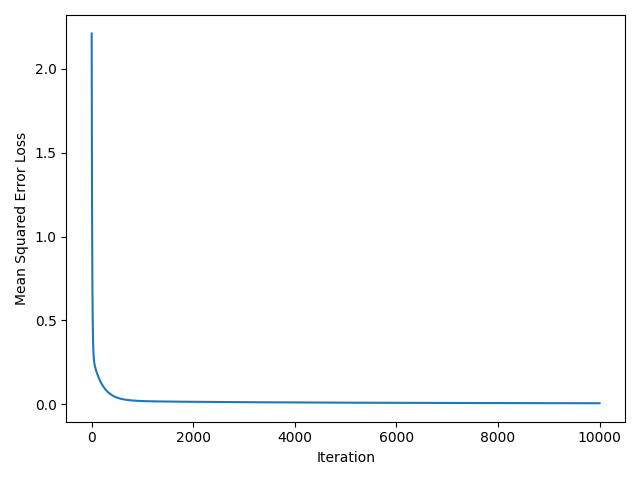
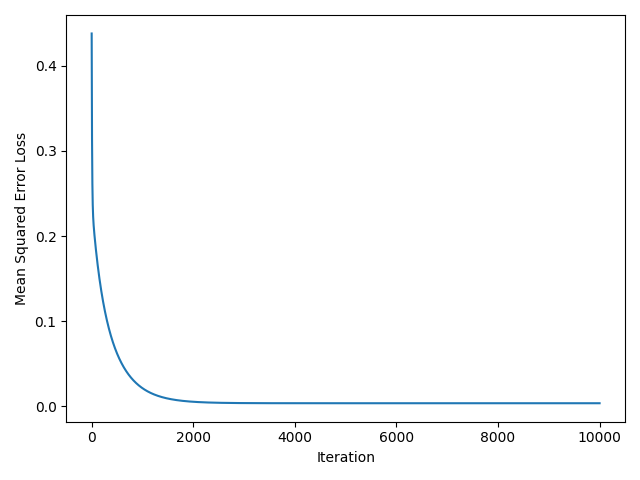
20251219

diff --git a/4/machine_learnig/03_pytorch/scripts/ex_03_22126.py b/4/machine_learnig/03_pytorch/scripts/ex_03_22126.py
@@ -1,0 +1,246 @@
+import os
+
+import torch
+import torch.nn as nn
+import torch.optim as optim
+from torch.utils.data import DataLoader
+import torchvision
+import torchvision.transforms as transforms
+import matplotlib.pyplot as plt
+
+
+def plot_losses(train_losses, test_losses, output_dir="../outputs"):
+    """
+    学習とテストの損失履歴を描画し，画像として保存する関数
+
+    Parameters
+    ----------
+    train_losses : list of float
+        学習データの各エポックの平均損失
+    test_losses : list of float
+        テストデータの各エポックの平均損失
+    output_dir : str
+        出力先ディレクトリのパス
+    """
+    os.makedirs(output_dir, exist_ok=True)
+    epochs = range(1, len(train_losses) + 1)
+
+    plt.figure()
+    plt.plot(epochs, train_losses, label="Train Loss")
+    plt.plot(epochs, test_losses, label="Test Loss")
+    plt.xlabel("Epoch")
+    plt.ylabel("Loss")
+    plt.legend()
+
+    out_path = os.path.join(output_dir, "mnist_loss_ex_03_22126_epoch100.png")
+    plt.savefig(out_path)
+    plt.close()
+
+    print(f"Saved loss figure to {out_path}")
+
+
+def plot_accuracy(train_accs, test_accs, output_dir="../outputs"):
+    """
+    学習とテストの正答率履歴を描画し，画像として保存する関数
+
+    Parameters
+    ----------
+    train_accs : list of float
+        学習データの各エポックの正答率（百分率）
+    test_accs : list of float
+        テストデータの各エポックの正答率（百分率）
+    output_dir : str
+        出力先ディレクトリのパス
+    """
+    os.makedirs(output_dir, exist_ok=True)
+    epochs = range(1, len(train_accs) + 1)
+
+    plt.figure()
+    plt.plot(epochs, train_accs, label="Train Acc")
+    plt.plot(epochs, test_accs, label="Test Acc")
+    plt.xlabel("Epoch")
+    plt.ylabel("Accuracy (%)")
+    plt.legend()
+
+    out_path = os.path.join(output_dir, "mnist_accuracy_ex_03_22126_epoch100.png")
+    plt.savefig(out_path)
+    plt.close()
+
+
+
+class NeuealNetworkCls(nn.Module):
+    """
+    ニューラルネットワークによる分類モデル（MNIST 用の単純 MLP）
+
+    Notes
+    -----
+    入力は 28x28 のグレースケール画像であり，Flatten 後の次元は 784 (=28*28) になる
+    """
+
+    def __init__(self):
+        super().__init__()
+        self.flatten = nn.Flatten()
+        self.fc1 = nn.Linear(784, 100)
+        self.relu = nn.ReLU()
+        self.fc2 = nn.Linear(100, 10)
+
+    def forward(self, x):
+        """
+        Forward pass of the classifier
+
+        Parameters
+        ----------
+        x : torch.Tensor
+            入力画像テンソル，形状は (N, 1, 28, 28)
+
+        Returns
+        -------
+        torch.Tensor
+            出力ロジット，形状は (N, 10)
+        """
+        x = self.flatten(x)
+        x = self.fc1(x)
+        x = self.relu(x)
+        x = self.fc2(x)
+        return x
+
+
+def load_mnist_dataloaders(batch_size=128):
+    """
+    MNIST のデータセットを読み込み，DataLoader を作成する関数
+
+    Parameters
+    ----------
+    batch_size : int, optional
+        ミニバッチサイズ
+
+    Returns
+    -------
+    tuple of DataLoader
+        (train_loader, test_loader)
+
+    """
+    transform = transforms.Compose([transforms.ToTensor()])
+
+    train_dataset = torchvision.datasets.MNIST(
+        root="../data", train=True, download=True, transform=transform
+    )
+    test_dataset = torchvision.datasets.MNIST(
+        root="../data", train=False, download=True, transform=transform
+    )
+
+    train_loader = DataLoader(train_dataset, batch_size=batch_size,shuffle=True)
+    test_loader = DataLoader(test_dataset, batch_size=batch_size, shuffle=False)
+
+    return train_loader, test_loader
+
+
+def main():
+    """
+    MNIST の分類モデルを学習し，各エポックにおける損失と正答率を表示し，
+    終了後に別々の画像として保存するメイン処理
+
+    Notes
+    -----
+    学習，評価，可視化までを一括で実行する
+    """
+
+    batch_size = 128
+    max_epochs = 100
+
+    learning_rate = 0.01
+
+
+    train_loader, test_loader = load_mnist_dataloaders(
+        batch_size=batch_size,
+    )
+
+    # モデルのインスタンスを生成
+    model = NeuealNetworkCls()
+    
+    # 誤差関数の宣言
+    criterion = nn.CrossEntropyLoss()
+    # 最適化器の宣言
+    optimizer = optim.SGD(model.parameters(), lr=learning_rate)
+
+    # 各エポックの損失と正答率を保存するリスト
+    train_losses = []
+    test_losses = []
+    train_accs = []
+    test_accs = []
+
+    # モデルの学習
+    for epoch in range(max_epochs):
+        running_loss = 0.0
+        correct_train = 0
+        total_train = 0
+
+        # モデルを学習モードに設定
+        model.train()
+        # 学習ループ
+        for inputs, labels in train_loader:
+            # 順伝播
+            outputs = model(inputs)
+            # 誤差計算
+            loss = criterion(outputs, labels)
+
+            # 重みの更新
+            optimizer.zero_grad()
+            loss.backward()
+            optimizer.step()
+
+            # 誤差を累積
+            running_loss += loss.item()
+            # 正答数を累積
+            _, predicted = outputs.max(1)
+            total_train += labels.size(0)
+            correct_train += (predicted == labels).sum().item()
+
+        # 学習データの平均誤差と正答率を計算
+        avg_train_loss = running_loss / len(train_loader)
+        train_acc = 100 * correct_train / total_train
+
+        running_test_loss = 0.0
+        correct_test = 0
+        total_test = 0
+
+        # モデルを学習モードに設定
+        model.eval()
+        # テストループ
+        with torch.no_grad():
+            for inputs, labels in test_loader:
+                # 順伝播
+                outputs = model(inputs)
+                # 誤差計算
+                loss = criterion(outputs, labels)
+
+                # 誤差を累積
+                running_test_loss += loss.item()
+                # 正答数を累積
+                _, predicted = outputs.max(1)
+                total_test += labels.size(0)
+                correct_test += (predicted == labels).sum().item()
+
+        # 学習データの平均誤差と正答率を計算
+        avg_test_loss = running_test_loss / len(test_loader)
+        test_acc = 100 * correct_test / total_test
+
+        # リストに履歴を結合
+        train_losses.append(avg_train_loss)
+        test_losses.append(avg_test_loss)
+        train_accs.append(train_acc)
+        test_accs.append(test_acc)
+
+        print(
+            f"Epoch [{epoch+1}/{max_epochs}] "
+            f"Train Loss: {avg_train_loss:.4f} Train Acc: {train_acc:.2f}% "
+            f"Test Loss: {avg_test_loss:.4f} Test Acc: {test_acc:.2f}%"
+        )
+
+    # 図の保存
+    plot_losses(train_losses, test_losses, output_dir="../outputs")
+    plot_accuracy(train_accs, test_accs, output_dir="../outputs")
+
+
+if __name__ == "__main__":
+    main()

diff --git a/4/machine_learnig/02_perceptron/scripts/ex_02_22126_v2.py b/4/machine_learnig/02_perceptron/scripts/ex_02_22126_v2.py
@@ -173,13 +173,12 @@ def main():
     x = data[:, :-1]
     t = data[:, -1].reshape(-1, 1)
 
-    xmax = x.max()
-    # 列ごとの最大値で正規化
     x = x / x.max(axis=0)
     t = t / t.max(axis=0)
 
+
     # 学習率
-    learning_rate = 0.0001
+    learning_rate = 0.0000001
 
     # 単純パーセプトロンのインスタンスを生成
     perceptron = Perceptron(x.shape[1], 1, learning_rate=learning_rate)
@@ -217,8 +216,6 @@ def main():
     print(perceptron.w)
     print("バイアス")
     print(perceptron.b)
-    print(xmax)
-
 
     # グラフに描画(横軸が実測値，縦軸が予測値の散布図)
     # 直線上に点が分布していれば予測精度が高いことを示す
@@ -228,7 +225,7 @@ def main():
     plt.ylabel("Predicted Sales")
     plt.plot([y.min(), y.max()], [y.min(), y.max()], 'r--')
     plt.tight_layout()
-    plt.savefig('../outputs/advertising_actual_vs_predicted_2.png')
+    plt.savefig('../outputs/advertising_actual_vs_predicted_3.png')
 
     # 誤差の履歴をプロット
     plt.figure()
@@ -236,7 +233,7 @@ def main():
     plt.xlabel("Iteration")
     plt.ylabel("Mean Squared Error Loss")
     plt.tight_layout()
-    plt.savefig('../outputs/advertising_loss_history_2.png')
+    plt.savefig('../outputs/advertising_loss_history_3.png')
     
 
 if __name__ == "__main__":
